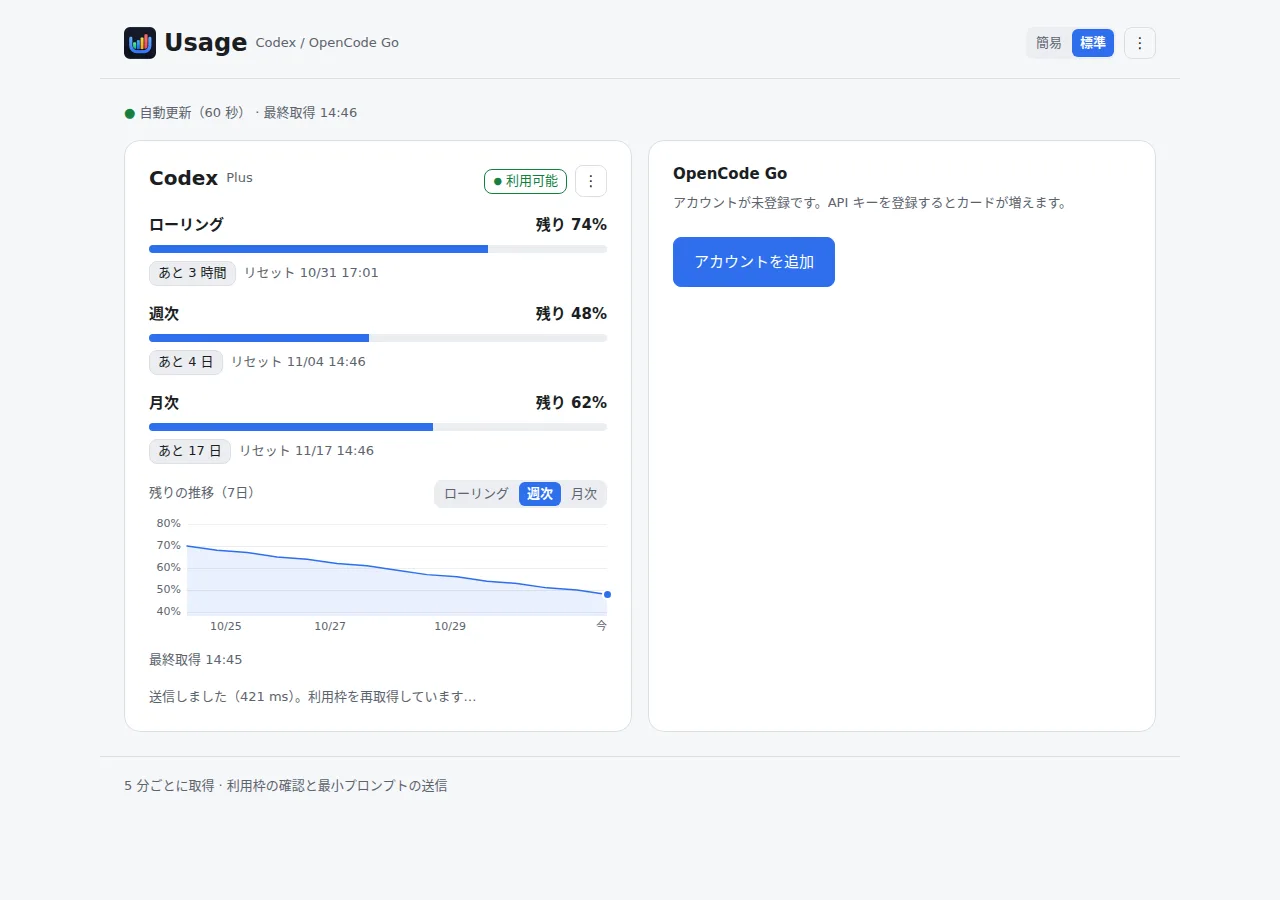
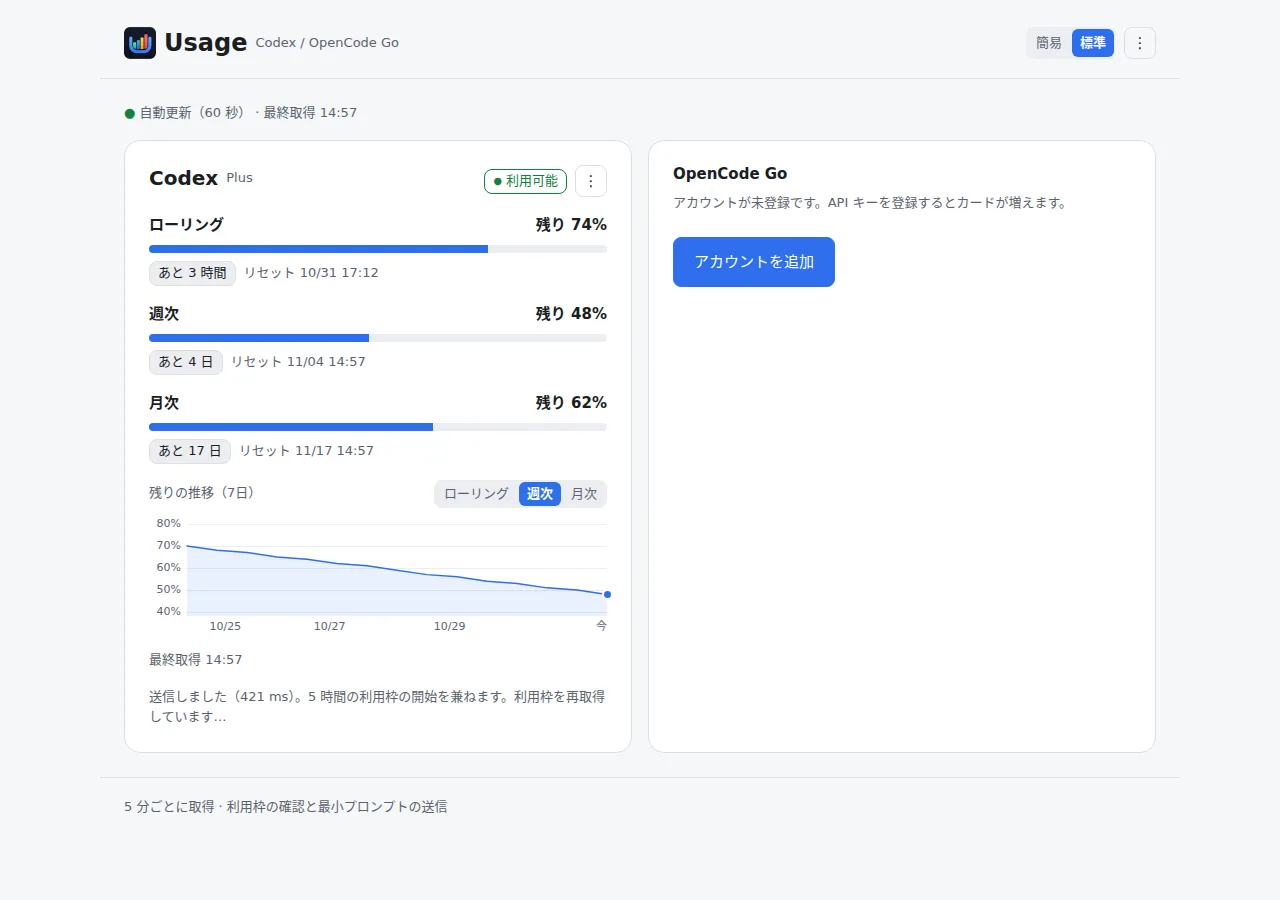
fix(usage-portal): make the Codex check's window start explicit
Why: moving the action into the card menu renamed it to "接続確認" and
removed the label that told users it starts the 5-hour window, so the
side effect was only documented. The card menu is drawn even without
sign-out now, which also invalidates ADR 0012's drawing condition.

diff --git a/projects/usage-portal/src/client/components/CodexCard.tsx b/projects/usage-portal/src/client/components/CodexCard.tsx
@@ -77,7 +77,9 @@ export function CodexCard(props: {
 
       if (outcome.ok) {
         // 反映が遅れることがある。取得できたときだけリセット時刻が出る、という前提の文言にする。
-        setCheckMessage(`送信しました（${outcome.latencyMs} ms）。利用枠を再取得しています…`);
+        setCheckMessage(
+          `送信しました（${outcome.latencyMs} ms）。5 時間の利用枠の開始を兼ねます。利用枠を再取得しています…`,
+        );
       } else {
         setCheckError(probeErrorMessage(outcome.error));
       }

diff --git a/projects/usage-portal/docs/adr/0012-codex-signout-in-card-menu.md b/projects/usage-portal/docs/adr/0012-codex-signout-in-card-menu.md
@@ -2,6 +2,7 @@
 
 - Status: accepted
 - Date: 2026-10-28
+- 一部置き換え: [ADR 0017](0017-probe-prompts.md) の追記（設定をカードのメニューへ移したため、メニューはサインアウト以外でも描く）
 
 ## 背景
 
